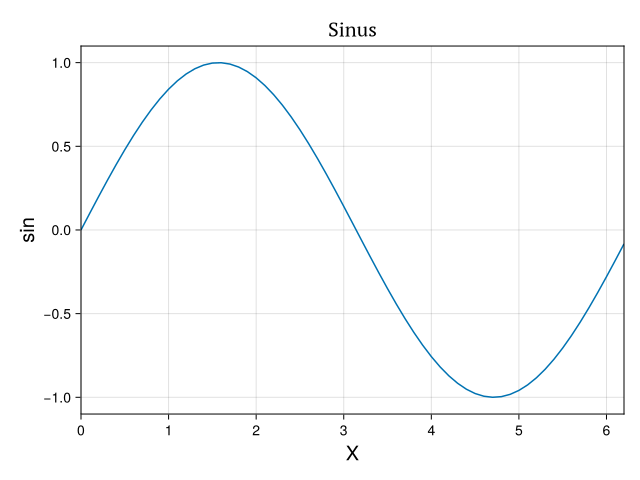
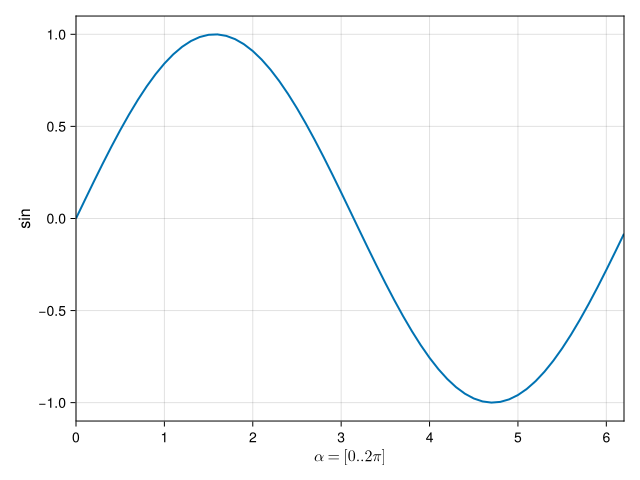
Fix savefig() exporting a precompile plot, regenerate docs/basic.png
The precompile workload left its last displayed plot in _LAST_BUILDER and the
other last-plot refs, so they were stored in the package image and savefig()
in a new session exported that plot instead of failing. Reset them at the end
of the workload, and test it in a fresh process.

docs/basic.png was made from examples/basic.jl and did not match the README
code next to it; it is now made from the README example.

diff --git a/CHANGELOG.md b/CHANGELOG.md
@@ -28,6 +28,9 @@
 - `bode_plot` with `ref_lines=true`: a phase that crossed -180° exactly at a
   frequency grid point was counted twice, so the gain margin line and label
   were drawn twice.
+- `savefig()` in a new session, before any plot was displayed, exported a plot
+  of the precompile workload instead of failing with "no plot to save".
+- `docs/basic.png` now shows the plot of the basic example in the README.
 
 ## v0.1.21 11-10-2026
 
